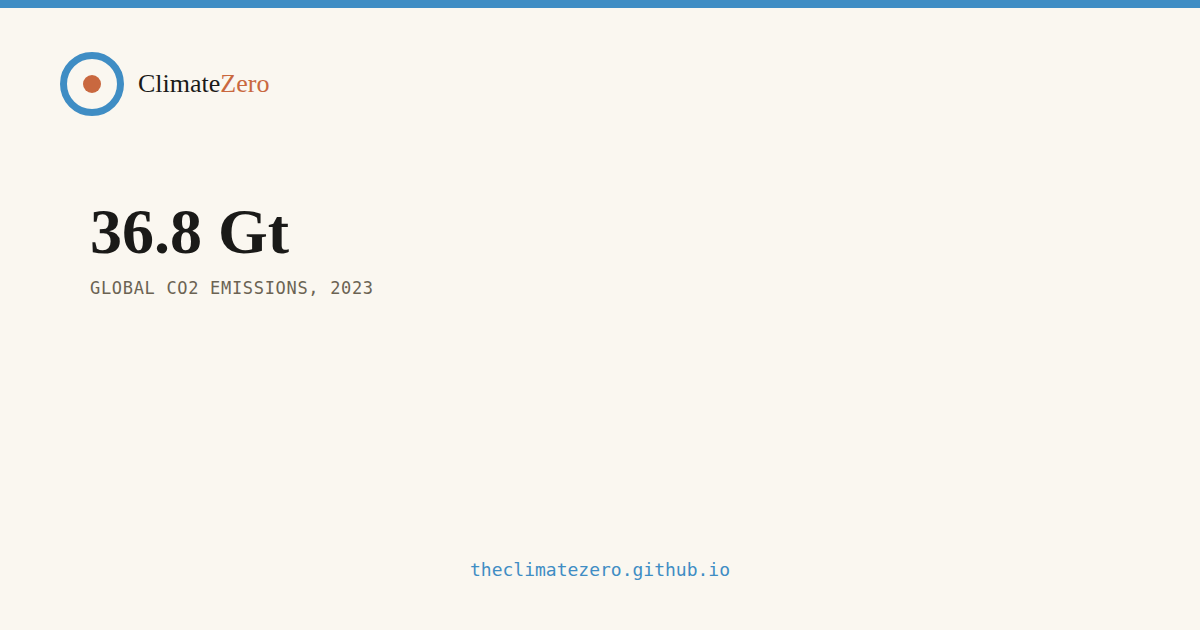
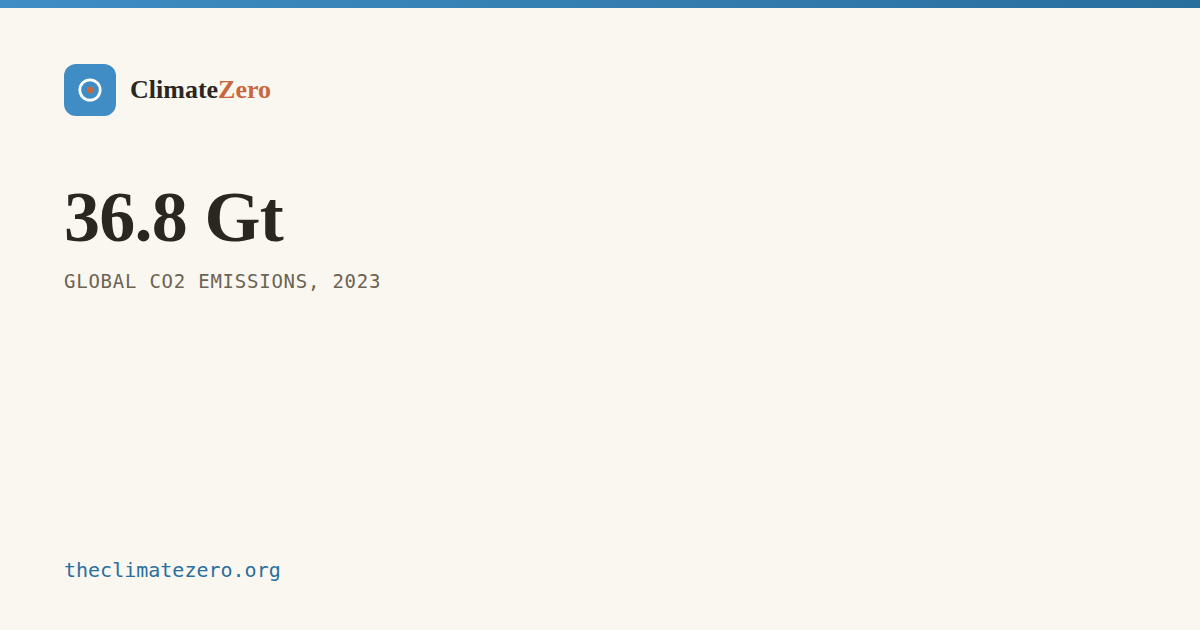
Add files via upload

diff --git a/renewable.html b/renewable.html
@@ -1,6 +1,7 @@
 <!DOCTYPE html>
 <html lang="en">
 <head>
+<script>if(location.hostname==="theclimatezero.github.io"){location.replace("https://theclimatezero.org"+location.pathname+location.search+location.hash);}</script>
 <meta charset="UTF-8">
 <meta name="viewport" content="width=device-width, initial-scale=1.0">
 <title>Renewable Energy by Country | ClimateZero</title>
@@ -13,11 +14,11 @@
 <meta property="og:title" content="Renewable Energy by Country | ClimateZero">
 <meta property="og:description" content="Who is leading the clean energy race and who is falling behind. Renewable electricity share by country and global capacity growth.">
 <meta property="og:url" content="https://theclimatezero.org/renewable.html">
-<meta property="og:image" content="https://theclimatezero.org/social-renewable.png">
+<meta property="og:image" content="https://theclimatezero.org/social-renewable.png?v=3">
 <meta name="twitter:card" content="summary_large_image">
 <meta name="twitter:title" content="Renewable Energy by Country | ClimateZero">
 <meta name="twitter:description" content="Who is leading the clean energy race and who is falling behind. Renewable electricity share by country and global capacity growth.">
-<meta name="twitter:image" content="https://theclimatezero.org/social-renewable.png">
+<meta name="twitter:image" content="https://theclimatezero.org/social-renewable.png?v=3">
 <rect width='100' height='100' rx='18' fill='%23eaf3f9'/><circle cx='50' cy='50' r='26' fill='none' stroke='%233f8dc4' stroke-width='7'/><circle cx='50' cy='50' r='9' fill='%23c9683f'/></svg>">
 <style>
 html[data-theme="dark"]{

diff --git a/privacy.html b/privacy.html
@@ -1,6 +1,7 @@
 <!DOCTYPE html>
 <html lang="en">
 <head>
+<script>if(location.hostname==="theclimatezero.github.io"){location.replace("https://theclimatezero.org"+location.pathname+location.search+location.hash);}</script>
 <meta charset="UTF-8">
 <meta name="viewport" content="width=device-width, initial-scale=1.0">
 <title>Privacy Policy | ClimateZero</title>
@@ -13,11 +14,11 @@
 <meta property="og:title" content="Privacy Policy | ClimateZero">
 <meta property="og:description" content="Privacy policy for ClimateZero, explaining what information is collected and how it is used.">
 <meta property="og:url" content="https://theclimatezero.org/privacy.html">
-<meta property="og:image" content="https://images.unsplash.com/photo-1504711434969-e33886168f5c?w=1200&h=630&fit=crop">
+<meta property="og:image" content="https://theclimatezero.org/social-privacy.png?v=3">
 <meta name="twitter:card" content="summary_large_image">
 <meta name="twitter:title" content="Privacy Policy | ClimateZero">
 <meta name="twitter:description" content="Privacy policy for ClimateZero, explaining what information is collected and how it is used.">
-<meta name="twitter:image" content="https://images.unsplash.com/photo-1504711434969-e33886168f5c?w=1200&h=630&fit=crop">
+<meta name="twitter:image" content="https://theclimatezero.org/social-privacy.png?v=3">
 <rect width='100' height='100' rx='18' fill='%23eaf3f9'/><circle cx='50' cy='50' r='26' fill='none' stroke='%233f8dc4' stroke-width='7'/><circle cx='50' cy='50' r='9' fill='%23c9683f'/></svg>">
 <style>
 html[data-theme="dark"]{

diff --git a/index.html b/index.html
@@ -14,11 +14,11 @@
 <meta property="og:title" content="ClimateZero | The data behind net zero.">
 <meta property="og:description" content="The world pledged $822 million for climate damage that costs $395 billion a year. ClimateZero tracks who caused the crisis, who is paying for it, and who is not.">
 <meta property="og:url" content="https://theclimatezero.org/">
-<meta property="og:image" content="https://theclimatezero.org/social-index.png?v=2">
+<meta property="og:image" content="https://theclimatezero.org/social-index.png?v=3">
 <meta name="twitter:card" content="summary_large_image">
 <meta name="twitter:title" content="ClimateZero | The data behind net zero.">
 <meta name="twitter:description" content="The world pledged $822 million for climate damage that costs $395 billion a year. ClimateZero tracks who caused the crisis, who is paying for it, and who is not.">
-<meta name="twitter:image" content="https://theclimatezero.org/social-index.png?v=2">
+<meta name="twitter:image" content="https://theclimatezero.org/social-index.png?v=3">
 <rect width='100' height='100' rx='18' fill='%23eaf3f9'/><circle cx='50' cy='50' r='26' fill='none' stroke='%233f8dc4' stroke-width='7'/><circle cx='50' cy='50' r='9' fill='%23c9683f'/></svg>">
 <style>
 html[data-theme="dark"]{

diff --git a/compare.html b/compare.html
@@ -14,11 +14,11 @@
 <meta property="og:title" content="Compare Countries | ClimateZero">
 <meta property="og:description" content="Compare any two countries on historical emissions, annual emissions, per person emissions, renewable energy and economic losses from climate change.">
 <meta property="og:url" content="https://theclimatezero.org/compare.html">
-<meta property="og:image" content="https://theclimatezero.org/social-compare.png">
+<meta property="og:image" content="https://theclimatezero.org/social-compare.png?v=3">
 <meta name="twitter:card" content="summary_large_image">
 <meta name="twitter:title" content="Compare Countries | ClimateZero">
 <meta name="twitter:description" content="Compare any two countries on historical emissions, annual emissions, per person emissions, renewable energy and economic losses from climate change.">
-<meta name="twitter:image" content="https://theclimatezero.org/social-compare.png">
+<meta name="twitter:image" content="https://theclimatezero.org/social-compare.png?v=3">
 <rect width='100' height='100' rx='18' fill='%23eaf3f9'/><circle cx='50' cy='50' r='26' fill='none' stroke='%233f8dc4' stroke-width='7'/><circle cx='50' cy='50' r='9' fill='%23c9683f'/></svg>">
 <style>
 html[data-theme="dark"]{

diff --git a/impact.html b/impact.html
@@ -14,11 +14,11 @@
 <meta property="og:title" content="Climate Impact Data | ClimateZero">
 <meta property="og:description" content="What global warming is doing to life on Earth: heat, health, migration, wildlife and disasters, in numbers, with sources.">
 <meta property="og:url" content="https://theclimatezero.org/impact.html">
-<meta property="og:image" content="https://theclimatezero.org/social-impact.png">
+<meta property="og:image" content="https://theclimatezero.org/social-impact.png?v=3">
 <meta name="twitter:card" content="summary_large_image">
 <meta name="twitter:title" content="Climate Impact Data | ClimateZero">
 <meta name="twitter:description" content="What global warming is doing to life on Earth: heat, health, migration, wildlife and disasters, in numbers, with sources.">
-<meta name="twitter:image" content="https://theclimatezero.org/social-impact.png">
+<meta name="twitter:image" content="https://theclimatezero.org/social-impact.png?v=3">
 <rect width='100' height='100' rx='18' fill='%23eaf3f9'/><circle cx='50' cy='50' r='26' fill='none' stroke='%233f8dc4' stroke-width='7'/><circle cx='50' cy='50' r='9' fill='%23c9683f'/></svg>">
 <style>
 html[data-theme="dark"]{

diff --git a/justice-index.html b/justice-index.html
@@ -14,11 +14,11 @@
 <meta property="og:title" content="The Climate Justice Gap | ClimateZero">
 <meta property="og:description" content="An original index ranking countries by the gap between how much they have contributed to climate change and how much they are suffering from it.">
 <meta property="og:url" content="https://theclimatezero.org/justice-index.html">
-<meta property="og:image" content="https://theclimatezero.org/social-index.png">
+<meta property="og:image" content="https://theclimatezero.org/social-index.png?v=3">
 <meta name="twitter:card" content="summary_large_image">
 <meta name="twitter:title" content="The Climate Justice Gap | ClimateZero">
 <meta name="twitter:description" content="An original index ranking countries by the gap between how much they have contributed to climate change and how much they are suffering from it.">
-<meta name="twitter:image" content="https://theclimatezero.org/social-index.png">
+<meta name="twitter:image" content="https://theclimatezero.org/social-index.png?v=3">
 <link rel="icon" href="favicon.ico" sizes="any">
 <link rel="icon" href="favicon.svg" type="image/svg+xml">
 <link rel="apple-touch-icon" href="apple-touch-icon.png">

diff --git a/loss-and-damage.html b/loss-and-damage.html
@@ -14,11 +14,11 @@
 <meta property="og:title" content="Loss & Damage Fund Tracker | ClimateZero">
 <meta property="og:description" content="What has been pledged, what has actually been paid, and what is owed. Tracking the UN Loss and Damage Fund since COP28.">
 <meta property="og:url" content="https://theclimatezero.org/loss-and-damage.html">
-<meta property="og:image" content="https://theclimatezero.org/card-lossanddamage.png">
+<meta property="og:image" content="https://theclimatezero.org/card-lossanddamage.png?v=3">
 <meta name="twitter:card" content="summary_large_image">
 <meta name="twitter:title" content="Loss & Damage Fund Tracker | ClimateZero">
 <meta name="twitter:description" content="What has been pledged, what has actually been paid, and what is owed.">
-<meta name="twitter:image" content="https://theclimatezero.org/card-lossanddamage.png">
+<meta name="twitter:image" content="https://theclimatezero.org/card-lossanddamage.png?v=3">
 <link rel="icon" href="favicon.ico" sizes="any">
 <link rel="icon" href="favicon.svg" type="image/svg+xml">
 <link rel="apple-touch-icon" href="apple-touch-icon.png">

diff --git a/about.html b/about.html
@@ -14,11 +14,11 @@
 <meta property="og:title" content="About | ClimateZero">
 <meta property="og:description" content="Why ClimateZero exists, its data sources, and how to get in touch.">
 <meta property="og:url" content="https://theclimatezero.org/about.html">
-<meta property="og:image" content="https://theclimatezero.org/social-about.png">
+<meta property="og:image" content="https://theclimatezero.org/social-about.png?v=3">
 <meta name="twitter:card" content="summary_large_image">
 <meta name="twitter:title" content="About | ClimateZero">
 <meta name="twitter:description" content="Why ClimateZero exists, its data sources, and how to get in touch.">
-<meta name="twitter:image" content="https://theclimatezero.org/social-about.png">
+<meta name="twitter:image" content="https://theclimatezero.org/social-about.png?v=3">
 <rect width='100' height='100' rx='18' fill='%23eaf3f9'/><circle cx='50' cy='50' r='26' fill='none' stroke='%233f8dc4' stroke-width='7'/><circle cx='50' cy='50' r='9' fill='%23c9683f'/></svg>">
 <style>
 html[data-theme="dark"]{

diff --git a/explore.html b/explore.html
@@ -8,10 +8,10 @@
 <meta name="description" content="An interactive world map of CO2 emissions by country, from ClimateZero.">
 <meta property="og:title" content="Explore Emissions by Country | ClimateZero">
 <meta property="og:description" content="An interactive world map of CO2 emissions by country.">
-<meta property="og:image" content="https://theclimatezero.org/social-explore.png">
+<meta property="og:image" content="https://theclimatezero.org/social-explore.png?v=3">
 <meta property="og:url" content="https://theclimatezero.org/explore.html">
 <meta name="twitter:card" content="summary_large_image">
-<meta name="twitter:image" content="https://theclimatezero.org/social-explore.png">
+<meta name="twitter:image" content="https://theclimatezero.org/social-explore.png?v=3">
 <link rel="icon" href="favicon.ico" sizes="any">
 <link rel="icon" href="favicon.svg" type="image/svg+xml">
 <link rel="apple-touch-icon" href="apple-touch-icon.png">
